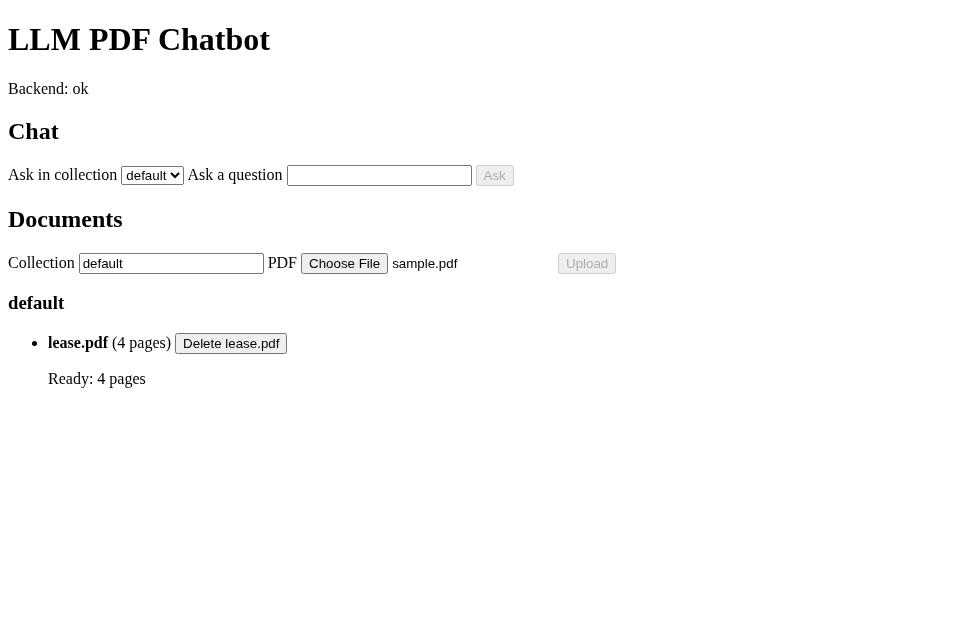
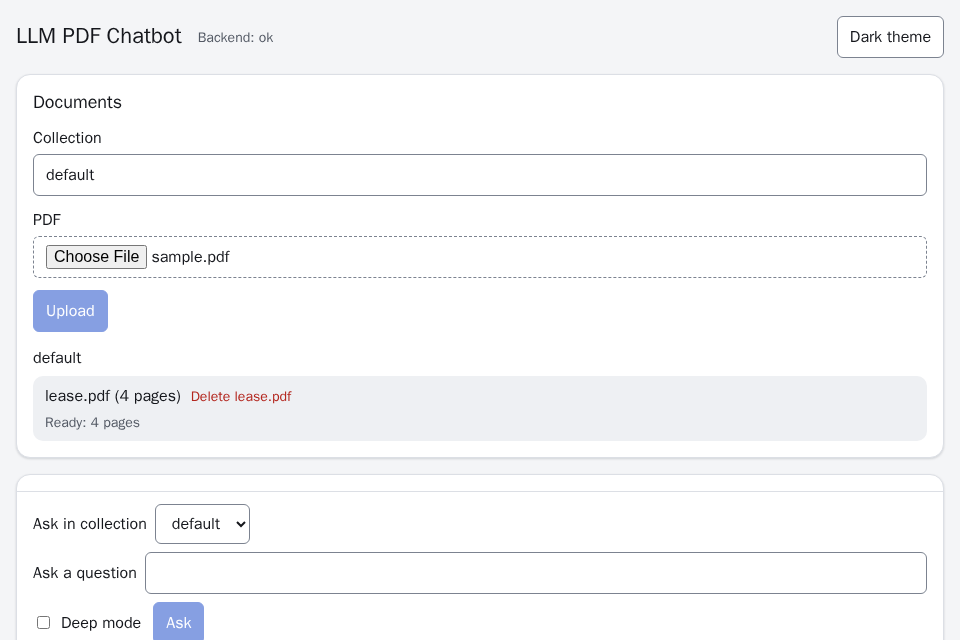
EST-5587: README Try it, refreshed screenshots with dark and phone images, changelog (#47)
Adds a README Try it section, recaptures the README images (plus dark and phone-width) with npm run capture:readme, and lists the UI pass under CHANGELOG 1.0.0.

diff --git a/frontend/e2e/capture/capture.spec.ts b/frontend/e2e/capture/capture.spec.ts
@@ -76,6 +76,16 @@ test('captures the README screenshots and GIF', async ({ page, api }) => {
   await page.screenshot({ path: OUT + README_IMAGES.answer })
   await snap()
 
+  // Dark and phone shots come from the clean answered state, before the viewer opens.
+  await page.evaluate(() => window.scrollTo(0, 0))
+  await page.emulateMedia({ colorScheme: 'dark' })
+  await page.screenshot({ path: OUT + README_IMAGES.dark })
+  await page.emulateMedia({ colorScheme: 'light' })
+  await page.setViewportSize({ width: 390, height: 780 })
+  await page.evaluate(() => window.scrollTo(0, 0))
+  await page.screenshot({ path: OUT + README_IMAGES.phone })
+  await page.setViewportSize({ width: 960, height: 640 })
+
   const chip = answer.getByRole('note', { name: 'Citation' }).first()
   await chip.click()
   await chip.hover()

diff --git a/frontend/e2e/readme-images.ts b/frontend/e2e/readme-images.ts
@@ -3,6 +3,8 @@ export const README_IMAGES = {
   upload: 'upload.png',
   answer: 'answer.png',
   citation: 'citation.png',
+  dark: 'dark.png',
+  phone: 'phone.png',
   gif: 'demo.gif',
 } as const
 

diff --git a/CHANGELOG.md b/CHANGELOG.md
@@ -4,16 +4,6 @@ All notable changes to this project are recorded here. The format follows [Keep 
 
 ## [Unreleased]
 
-### Added
-
-- First-run empty states in the documents panel and the chat that say what to do next; a spinner while the documents load and while a cited page opens; a Retry button on a failed document load, upload, answer and PDF viewer open (an answer is asked again in the collection and mode it was first asked in); and a note on each document still being read, and in the chat for the chosen collection, that answers leave it out until it is ready.
-- A "Try a sample PDF" button in the empty documents panel: one click uploads a small sample PDF, written for this repo and served by the frontend, into the selected collection.
-
-### Changed
-
-- When the model endpoint cannot be reached, a chat answer and a failed document upload now say so and name `LLM_BASE_URL` as the setting to check.
-- A refreshed page look built on one set of design tokens (colour, type, spacing, radius, shadow, focus ring) in `theme.css`; light and dark text pass WCAG AA contrast. On a desktop the documents panel is a sidebar beside the chat; on a phone it stacks above the chat, the question box stays at the bottom of the screen, and the PDF viewer fills the screen.
-
 ## [1.0.0] - 2026-11-06
 
 The 2026 rebuild: a FastAPI backend, a React frontend and Postgres with pgvector, replacing the Create React App prototype.
@@ -30,8 +20,16 @@ The 2026 rebuild: a FastAPI backend, a React frontend and Postgres with pgvector
 - The web page: documents panel with upload progress and ingestion status, chat with citation chips, a PDF viewer that opens the cited page and highlights the quote, light and dark themes, and a phone layout.
 - Any OpenAI-compatible model provider, set by environment variables.
 - Docker Compose for the whole stack, with a smoke test.
+- First-run empty states in the documents panel and the chat that say what to do next; a spinner while the documents load and while a cited page opens; a Retry button on a failed document load, upload, answer and PDF viewer open (an answer is asked again in the collection and mode it was first asked in); and a note on each document still being read, and in the chat for the chosen collection, that answers leave it out until it is ready.
+- A "Try a sample PDF" button in the empty documents panel: one click uploads a small sample PDF, written for this repo and served by the frontend, into the selected collection.
+- A "Try it" section in the README, and refreshed screenshots including a dark-mode and a phone-width image.
 - An evaluation: 40 questions (10 unanswerable) over 5 freely licensed PDFs, scored for accuracy, citation precision, refusal accuracy and cost.
 - A release workflow: a `v*` tag builds the backend and frontend images and, once the tagged commit's checks are green, publishes both to the GitHub Container Registry.
+
+### Changed
+
+- When the model endpoint cannot be reached, a chat answer and a failed document upload now say so and name `LLM_BASE_URL` as the setting to check.
+- A refreshed page look built on one set of design tokens (colour, type, spacing, radius, shadow, focus ring) in `theme.css`; light and dark text pass WCAG AA contrast. On a desktop the documents panel is a sidebar beside the chat; on a phone it stacks above the chat, the question box stays at the bottom of the screen, and the PDF viewer fills the screen.
 
 [Unreleased]: https://github.com/samestrin/llm-pdf-chatbot/compare/v1.0.0...HEAD
 [1.0.0]: https://github.com/samestrin/llm-pdf-chatbot/releases/tag/v1.0.0

diff --git a/README.md b/README.md
@@ -16,6 +16,36 @@ Chat with your own PDFs and get answers you can trust: every answer cites the qu
 
 ![The whole flow: upload, ask, read the cited answer](docs/img/demo.gif)
 
+![The same page in dark mode](docs/img/dark.png)
+
+![The page at phone width](docs/img/phone.png)
+
+## Try it
+
+You need Docker with the Compose plugin (`docker compose version`) and [Ollama](https://ollama.com) running on the same machine.
+
+1. Pull the three local models the default settings use:
+
+   ```bash
+   ollama pull llama3.2
+   ollama pull qwen3:14b
+   ollama pull nomic-embed-text
+   ```
+
+2. Start the stack:
+
+   ```bash
+   cp .env.example .env
+   docker compose up --build
+   ```
+
+3. Open <http://localhost:8080>. In the empty documents panel, click **Try a sample PDF**; it uploads a small sample PDF into the `default` collection.
+4. When the document shows "Ready", ask a question about it and press **Ask**.
+
+You should see the answer stream in, each claim followed by a citation chip with the file and page it came from; click a chip to open the PDF at that page with the quote highlighted. A question the sample does not cover is answered "Not in your documents". If the model cannot be reached, the page says so and names `LLM_BASE_URL` as the setting to check.
+
+No local models? Use the cloud block instead: in `.env`, replace the local block with the commented cloud block (`LLM_BASE_URL`, `LLM_API_KEY` and the three model names), then run `docker compose up --build`. See [Configuration](#configuration).
+
 ## Run it
 
 You need Docker with the Compose plugin (`docker compose version`).
